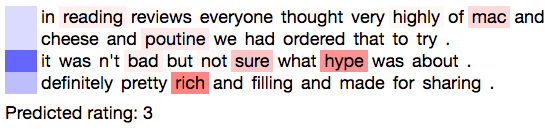
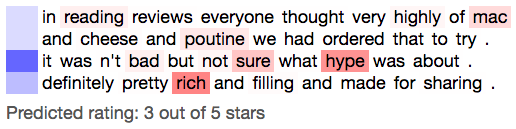
show total star count in viewer

diff --git a/app/templates/index.html b/app/templates/index.html
@@ -104,6 +104,7 @@
 
 			#prediction-container {
 				margin-top: 8px;
+				color: #555;
 			}
 		</style>
 	</header>	
@@ -210,7 +211,8 @@
 				let renderPrediction = function(prediction) {
 					let predictionContainer = document.createElement("div");
 					predictionContainer.id = "prediction-container";
-					let predictionText = 'Predicted rating: ' + (Math.round(prediction) + 1);
+					let predictionText = 
+						'Predicted rating: ' + (Math.round(prediction) + 1) + ' out of 5 stars';
 					predictionContainer.innerHTML = predictionText;
 					document.getElementById("activation-map").appendChild(predictionContainer);
 				}
